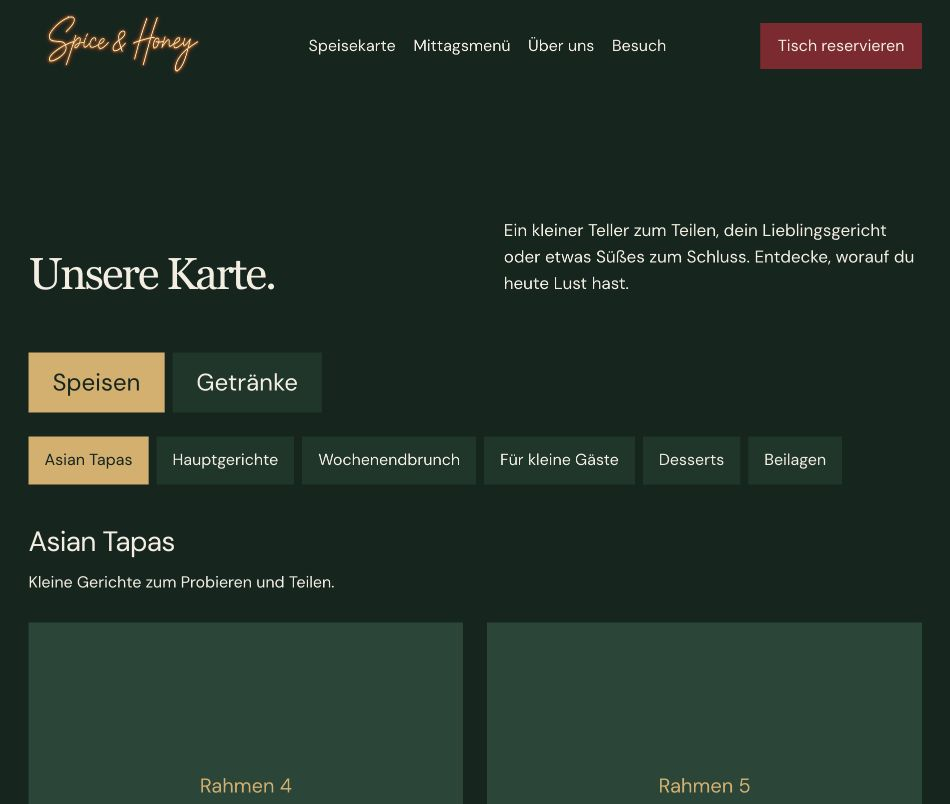
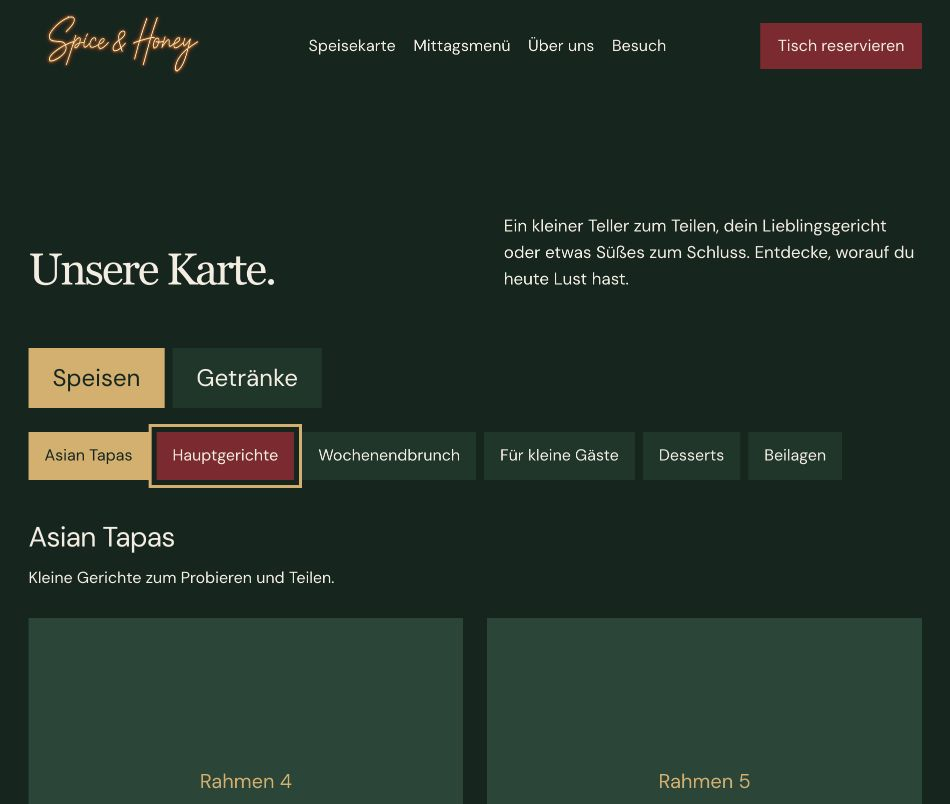
Use gold for selected menu tabs and red for hover and focus

diff --git a/styles.css b/styles.css
@@ -102,8 +102,8 @@ a:focus-visible, button:focus-visible, summary:focus-visible { outline: 3px soli
 .menu-kinds a[aria-current] { background: var(--accent); color: var(--bg); }
 .menu-filters { display: flex; flex-wrap: wrap; gap: .5rem; margin-bottom: 2.5rem; max-width: 1100px; }
 .menu-filters a { text-decoration: none; padding: .7rem 1rem; min-height: 48px; background: var(--surface); font-size: 1rem; }
-.menu-filters a[aria-current] { background: var(--red); color: var(--ink); }
-.menu-filters a:is(:hover, :focus-visible), .menu-kinds a:is(:hover, :focus-visible) { background: var(--accent); color: var(--bg); }
+.menu-filters a[aria-current] { background: var(--accent); color: var(--bg); }
+.menu-filters a:not([aria-current]):is(:hover, :focus-visible), .menu-kinds a:not([aria-current]):is(:hover, :focus-visible) { background: var(--red); color: var(--ink); }
 .menu-filters a:active, .menu-kinds a:active { transform: translateY(2px); }
 .menu-filters a, .menu-kinds a { transition: transform 150ms var(--ease), background-color 150ms; }
 .menu-category + .menu-category { margin-top: 4rem; }

diff --git a/docs/qa.md b/docs/qa.md
@@ -124,3 +124,10 @@ Der große gesetzte Schriftzug wurde durch dieselbe originale Logo-Datei wie im 
 - 131 eindeutige Rahmen: 1 Startbild, 2 Restaurantatmosphäre, 3 Fassade, 4–131 Menüeinträge. Abgleich von content/menu.json, HTML und CSV erfolgreich. Menünummern sind feste photoFrame-Werte; Kategorienwechsel zu Asian Tapas zeigt Summer Rolls weiterhin als Rahmen 4. Nummer einer Menükarte verschwindet automatisch, sobald ein image-Pfad gesetzt ist.
 - Fotoplan mit Aufnahmeformaten, Motiven, Kamerapositionen aus dem früher lokal ausgewerteten Rundgang, Dateibenennung, 15 priorisierten Rahmen und vollständiger Zuordnung erstellt. Keine Originalfotos bearbeitet oder hochgeladen.
 - Build, Syntaxprüfung, Quell-Lint und git diff --check erfolgreich. Inspector: 0 FAIL / 0 WARN bei 1440×900, 768×1024 und 390×844 mit den bisherigen drei begründeten Ausnahmen. Alle Fold- und Seitenscreenshots angesehen: Zahlen lesbar, Header auch bei unteren Seitenabschnitten sichtbar, kein gemeldeter horizontaler Überlauf.
+
+
+## Menüauswahl Gold, Interaktion Rot
+
+- Aktive Kategorien (beispielsweise Asian Tapas) dauerhaft Gold #D9AE65 mit dunkelgrüner Schrift. Inaktive Kategorien und Bereichsreiter bei Hover oder sichtbarem Tastaturfokus Rot #85232D mit heller Schrift #F4EDE1. Aktive Auswahl bleibt auch bei Interaktion Gold.
+- Im Browser Asian Tapas ausgewählt, danach Hauptgerichte per Tab fokussiert. Berechnete Farben und Screenshot bestätigen Gold/Dunkelgrün für Auswahl und Rot/Creme für Fokus. Gemeinsame CSS-Regel für Hover und Fokus; Fokusrahmen bleibt sichtbar.
+- Build, Quell-Lint und git diff --check erfolgreich. Inspector 0 FAIL / 0 WARN bei 1440×900, 768×1024 und 390×844 mit den bestehenden drei begründeten Ausnahmen. Menüseiten-Screenshots der drei Größen angesehen.

diff --git a/docs/design-review.md b/docs/design-review.md
@@ -169,3 +169,8 @@ Die bisherigen E-Mail-Tischanfragen im Header und Besuchsbereich führen jetzt a
 Die Nutzeranweisung macht die vorhandene schlichte Navigation dauerhaft erreichbar. Waldgrüner Hintergrund und feste Stapelreihenfolge halten Text hinter der Leiste aus dem Sichtbereich; eine dynamisch gemessene Headerhöhe reserviert Platz bei Sprunglinks. Keine neue Komposition, kein neuer Draw.
 
 Die sichtbaren Nummern sind ausdrücklich verlangte, vorläufige Produktionsmarkierungen und eine begründete Ausnahme zur Hausregel gegen dekorative Indexnummern. Sie stehen mittig in den vorhandenen Bildflächen, markieren keine Überschriften und erzeugen keine neuen Boxen. Gold hält sie innerhalb der Marke. Die Menünummern bleiben beim Filtern gleich und werden bei finalen Bildern automatisch entfernt. Screenshots aller drei Breiten zeigen keine neue Layoutkollision; die Bewertung bleibt die einer absichtlich noch nicht fotografierten Vorlage.
+
+
+## Goldene Kategorieauswahl und rote Interaktion
+
+Die aktive Kategorie ist nun dauerhaft goldfarben mit dunkelgrüner Schrift. Nur nicht ausgewählte Kategorien und Speisen-/Getränkereiter reagieren bei Hover oder sichtbarem Tastaturfokus mit Bankrot und heller Schrift. Die Auswahl bleibt dadurch vom vorübergehenden Interaktionszustand unterscheidbar. Andere Website-Aktionen behalten ihre vorhandenen Farben.
